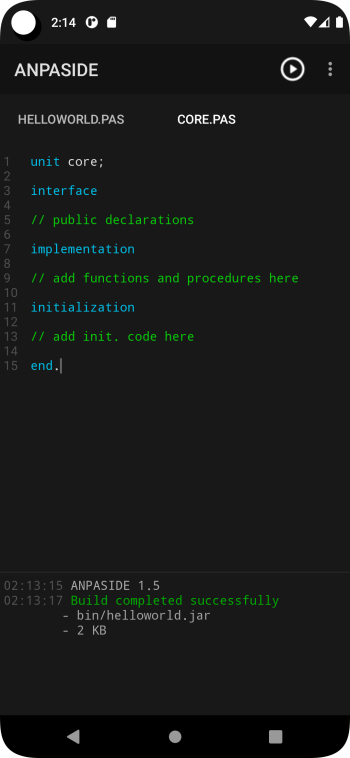
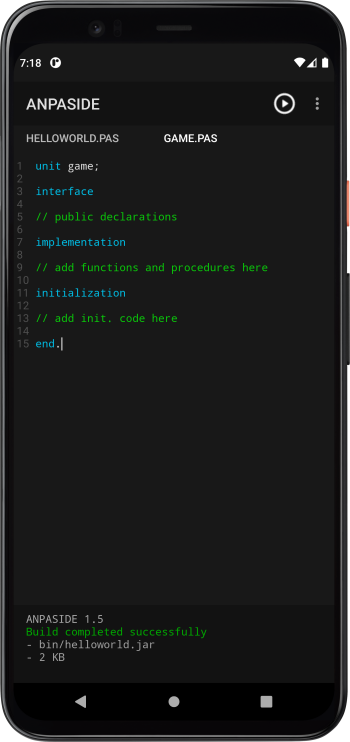
update screenshots

diff --git a/README.md b/README.md
@@ -9,4 +9,4 @@ Mobile IDE that using the [MIDletPascal](http://wikipedia.org/wiki/MIDletPascal)
 <a href='https://apt.izzysoft.de/fdroid/index/apk/com.github.helltar.anpaside'><img alt='Get it on IzzyOnDroid' src='https://gitlab.com/IzzyOnDroid/repo/-/raw/master/assets/IzzyOnDroid.png' height='75'/></a>
 
 ---
-<img src="https://helltar.com/projects/anpaside/screenshots/Screenshot_20220205_002019.png" width="30%"> <img src="https://helltar.com/projects/anpaside/screenshots/Screenshot_20220205_002125.png" width="30%"> <img src="https://helltar.com/projects/anpaside/screenshots/Screenshot_20220205_002039.png" width="30%">
+<img src="https://helltar.com/projects/anpaside/screenshots/Screenshot_20220702_191748.png" width="30%"> <img src="https://helltar.com/projects/anpaside/screenshots/Screenshot_20220702_191825.png" width="30%"> <img src="https://helltar.com/projects/anpaside/screenshots/Screenshot_20220702_194122.png" width="30%"> <img src="https://helltar.com/projects/anpaside/screenshots/Screenshot_20220702_193908.png" width="30%">
